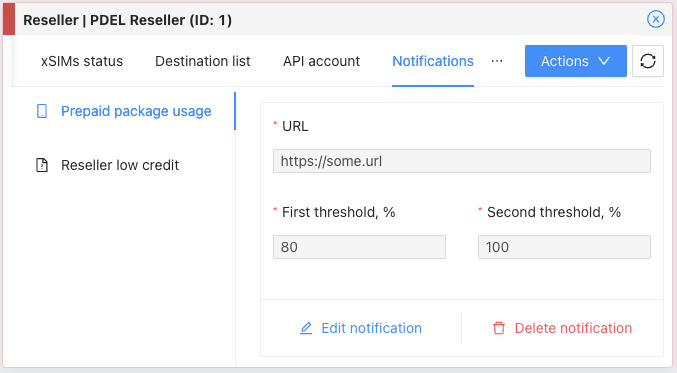
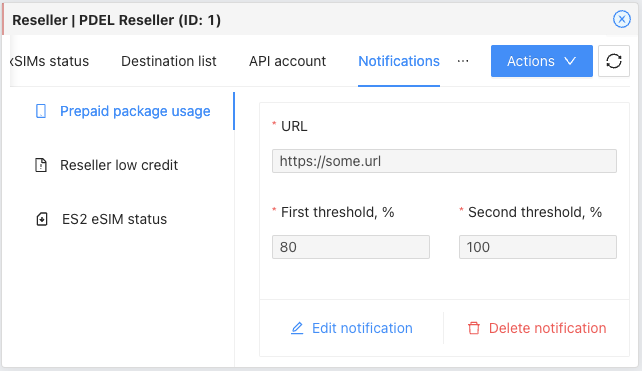
doc

diff --git a/doc/v1/customer_notification.md b/doc/v1/customer_notification.md
@@ -46,6 +46,10 @@ This notification is configured in the `Reseller` object with an URL where we wi
 Each time we receive a status update of an eSIM configured in our system, we are checking if the customer has configured
 an "ES2+ Notification". In such a case, the new status of the eSIM is sent to the customer.
 
+Here is an example of configuration:  
+![reseller_ES2_notif.png](pics%2Freseller_ES2_notif.png)
+
+
 The HTTP request received by the customer will contain a JSON object with the following attributes:
 
 | Attribute | Presence | Description                                                        |
